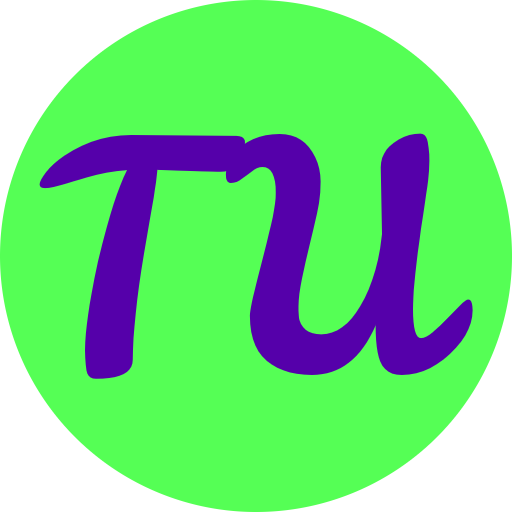
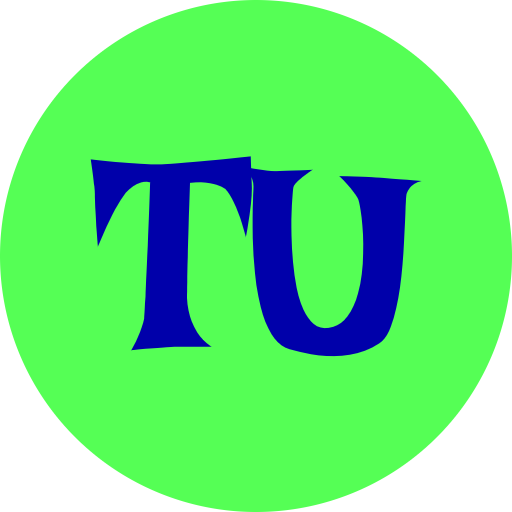
Updates

Changed region(s): [[0.0625, 0.25, 0.9375, 0.75]]

diff --git a/src/components/About.js b/src/components/About.js
@@ -1,33 +1,37 @@
-import React, { useState } from 'react'
+import React from 'react'
 
-export default function About() {
+export default function About(props) {
 
-     const [myStyle, setMyStyle] = useState( {
-        color:'black',
-        backgroundColor:'White'
+    //  const [myStyle, setMyStyle] = useState( {
+    //     color:'black',
+    //     backgroundColor:'White'
 
-    })
+    // })
 
-    const [btntext, setBtnText] = useState("Enable Dark Mode")
-
-    const toggleStyle = () =>{
-       if( myStyle.color === 'white') {
-        setMyStyle({
-          
-        })
-        setBtnText("Enable Dark Mode")
-       }
-       else{
-        setMyStyle({
-            color:'white',
-            backgroundColor:'black'
-        })
-        setBtnText("Enable Light Mode")
-       }
+    let myStyle = {
+        color: props.mode === 'dark'?'white':'rgb(36 74 104)',
+        backgroundColor: props.mode === 'dark'?'rgb(36 74 104)':'white',
     }
+
+
+    // const toggleStyle = () =>{
+    //    if( myStyle.color === 'white') {
+    //     setMyStyle({
+          
+    //     })
+    //     setBtnText("Enable Dark Mode")
+    //    }
+    //    else{
+    //     setMyStyle({
+    //         color:'white',
+    //         backgroundColor:'black'
+    //     })
+    //     setBtnText("Enable Light Mode")
+    //    }
+    // }
    
   return (
-    <div className="contaoner" style={myStyle} >
+    <div className="contaoner" style={{color: props.mode === 'dark'?'white':'rgb(36 74 104)'}} >
         <h1 className="my-3">About Us</h1>
                 <div className="accordion" id="accordionExample" >
             <div className="accordion-item">
@@ -38,8 +42,7 @@ export default function About() {
                 </h2>
                 <div id="collapseOne" className="accordion-collapse collapse show" data-bs-parent="#accordionExample">
                 <div className="accordion-body" style={myStyle}>
-                    <strong>This is the first item’s accordion body.</strong> It is shown by default, until the collapse plugin adds the appropriate classes that we use to style each element. These classes control the overall appearance, as well as the showing and hiding via CSS transitions. You can modify any of this with custom CSS or overriding our default variables. It’s also worth noting that just about any HTML can go within the <code>.accordion-body</code>, though the transition does limit overflow.
-                </div>
+                    <strong>Text Utils</strong> is your go-to toolkit for quick, smart, and reliable text processing — from formatting and counting to transforming content effortlessly.                </div>
                 </div>
             </div>
             <div className="accordion-item">
@@ -50,8 +53,7 @@ export default function About() {
                 </h2>
                 <div id="collapseTwo" className="accordion-collapse collapse" data-bs-parent="#accordionExample">
                 <div className="accordion-body" style={myStyle}>
-                    <strong>This is the second item’s accordion body.</strong> It is hidden by default, until the collapse plugin adds the appropriate classes that we use to style each element. These classes control the overall appearance, as well as the showing and hiding via CSS transitions. You can modify any of this with custom CSS or overriding our default variables. It’s also worth noting that just about any HTML can go within the <code>.accordion-body</code>, though the transition does limit overflow.
-                </div>
+                    <strong>We believe</strong> in making text tasks simple, fast, and accessible for everyone, whether you’re a student, writer, or developer.                </div>
                 </div>
             </div>
             <div className="accordion-item">
@@ -62,14 +64,11 @@ export default function About() {
                 </h2>
                 <div id="collapseThree" className="accordion-collapse collapse" data-bs-parent="#accordionExample">
                 <div className="accordion-body" style={myStyle}>
-                    <strong>This is the third item’s accordion body.</strong> It is hidden by default, until the collapse plugin adds the appropriate classes that we use to style each element. These classes control the overall appearance, as well as the showing and hiding via CSS transitions. You can modify any of this with custom CSS or overriding our default variables. It’s also worth noting that just about any HTML can go within the <code>.accordion-body</code>, though the transition does limit overflow.
-                </div>
+                    <strong>Our mission is</strong> to empower you with intuitive tools that save time and boost productivity.                </div>
                 </div>
             </div>
         </div>
-        <div className="container my-3">
-            <button onClick={toggleStyle} type="button" class="btn btn-primary">{btntext}</button>
-        </div>
+        
     </div>
   )
 }

diff --git a/src/components/TextForm.js b/src/components/TextForm.js
@@ -5,7 +5,7 @@ export default function TextForm(props) {
  
 const handleUpClick = () => {
   if (text.trim() === "") {
-    props.showAlert("Please enter some text first!", "warning");
+    props.showAlert("Please enter some content first!", "warning");
   } else {
     let newText = text.toUpperCase();
     setText(newText);
@@ -13,15 +13,20 @@ const handleUpClick = () => {
   }
 };
 
-  const handlereClick = () => {
-      let newText = ' ';
-      setText(newText);
+  
+const handleReClick = () => {
+  if (text.trim() === "") {
+    props.showAlert("Please enter some content to reset!", "warning");
+  } else {
+    setText("");
+    props.showAlert("Text cleared successfully!", "success");
   }
+};
 
 
 const handleLoClick = () => {
   if (text.trim() === "") {
-   props.showAlert("Please enter some text first!", "warning");
+   props.showAlert("Please enter some content first!", "warning");
   } else {
     let newText = text.toLowerCase();
     setText(newText);
@@ -36,12 +41,13 @@ const handleLoClick = () => {
 
 const handleCopy = async () => {
   if (text.trim() === "") {
-    props.showAlert("Please enter some text first!", "warning");
+    props.showAlert("Please enter some content first!", "warning");
     return;
   }
 
   try {
     await navigator.clipboard.writeText(text);
+    document.getSelection().removeAllRanges();
     props.showAlert("Copied to Clipboard!", "success");
   } catch (error) {
     props.showAlert("Failed to copy text!", "danger");
@@ -54,23 +60,30 @@ const handleCopy = async () => {
   return (
     <>
     <div className="container" style={{color: props.mode === 'dark'?'white':'black'}}>
-      <h1>{props.heading} </h1>
+      <h1 className='mb-4'>{props.heading} </h1>
      <div className="mb-3">
-        <textarea className="form-control" value={text} onChange={handleOnChange} style={{backgroundColor: props.mode === 'dark'?'grey':'white', color: props.mode === 'dark'?'white':'black'}}  id="myBox" rows="8"></textarea>
+        <textarea className="form-control" value={text} onChange={handleOnChange} style={{backgroundColor: props.mode === 'dark'?'#13466e':'white', color: props.mode === 'dark'?'white':'black'}}  id="myBox" rows="8"></textarea>
      </div>
     <button className="btn btn-primary my-1 mx-1" onClick={handleUpClick}>Convert to UPPERCASE</button>
     <button className="btn btn-primary my-1 mx-1" onClick={handleLoClick}>Convert to lowercase</button>
     <button className="btn btn-primary my-1 mx-1" onClick={handleCopy}>Copy to Clipboard</button>
-    <button className="btn btn-primary my-1 mx-1" onClick={handlereClick}>Reset above field</button>
+    <button className="btn btn-primary my-1 mx-1" onClick={handleReClick}>Reset above field</button>
 
 
     
     <div className="container my-3">
       <h2>your text summery </h2>
-      <p>{text.split(" ").length-1} word and {text.length} characters </p>
-       <p>{0.008*text.split(" ").length} Minutes read </p>
+      
+      <p>
+        {text.split(/\s+/).filter((element) => element.length !== 0).length} words
+        and {text.replace(/\s/g, "").length} characters
+      </p>
+
+      {/* <p>{text.split(" ").filter((element)=>{return element.length!==0}).length} word and {text.length} characters </p> */}
+
+       <p>{0.008 * text.split(" ").filter((element)=>{return element.length!==0}).length} Minutes read </p>
        <h2>Preview</h2>
-       <p>{text.length>0?text:"Enter something in the text box above to preview it here"}</p>
+       <p>{text.length>0?text:"Nothing to preview!"}</p>
 
     </div>
    </div> 

diff --git a/src/components/Navbar.js b/src/components/Navbar.js
@@ -1,25 +1,36 @@
 import React from 'react'
 import PropTypes from 'prop-types'
-// import { Link } from 'react-router-dom';
+import { Link } from 'react-router-dom';
 
 
 export default function Navbar(props) {
   return (
      <nav className={`navbar navbar-expand-lg navbar-${props.mode} bg-${props.mode}`}>
   <div className="container-fluid">
-    <a className="navbar-brand" href="/">{props.title}</a>
+    {/* <a className="navbar-brand" href="/">{props.title}</a> */}
+    
+<Link className="navbar-brand d-flex align-items-center" to="/">
+  <img
+    src="/logo.png"
+    alt="TextUtils Logo"
+    width="130"
+    height="50"
+    className="me-2"
+  />
+  {props.title}
+</Link>
+
     <button className="navbar-toggler" type="button" data-bs-toggle="collapse" data-bs-target="#navbarSupportedContent" aria-controls="navbarSupportedContent" aria-expanded="false" aria-label="Toggle navigation">
       <span className="navbar-toggler-icon"></span>
     </button>
     <div className="collapse navbar-collapse" id="navbarSupportedContent">
       <ul className="navbar-nav me-auto mb-2 mb-lg-0">
         <li className="nav-item">
-          {/* <Link className="nav-link active" aria-current="page" to="/">Home</Link> */}
-          <a className="nav-link active" aria-current="page" href="#">Home</a>
+          <Link className="nav-link active" aria-current="page" to="/">Home</Link>
         </li>
-        {/* <li className="nav-item">
+        <li className="nav-item">
           <Link className="nav-link" to="/about">About</Link>
-        </li> */}
+        </li>
       </ul>
       {/* <form className="d-flex" role="search">
         <input className="form-control me-2" type="search" placeholder="Search" aria-label="Search"/>

diff --git a/src/App.js b/src/App.js
@@ -1,14 +1,14 @@
 import './App.css';
 import Alert from './components/Alert';
-// import About from './components/About';
+import About from './components/About';
 import Navbar from './components/Navbar';
 import TextForm from './components/TextForm';
 import React, {useState} from 'react';
-// import{
-//   BrowserRouter as Router,
-//   Routes,
-//   Route,
-// }from "react-router-dom";
+import{
+  BrowserRouter as Router,
+  Routes,
+  Route,
+}from "react-router-dom";
 
 function App() {
   const [mode, setMode] = useState('light')
@@ -38,29 +38,29 @@ function App() {
   }
   return (
     <>
-  {/* <Router> */}
-     <Navbar title="TextUtils" mode={mode} toggleMode={toggleMode}/>
+  <Router>
+     <Navbar mode={mode} toggleMode={toggleMode}/>
      <Alert alert={alert}/>
 
      <div className="container my-3">
-      {/* <Routes>
+      <Routes>
         <Route
            exact path="/about"
-            element={<About />}
+            element={<About mode={mode}/>}
         />
         <Route
           exact path="/"
-          element={ */}
+          element={
             <TextForm
               showAlert={showAlert}
-              heading="Enter the text to analyze below"
+              heading="TextUtils - Word counter, character counter"
               mode={mode}
             />
-        {/* //   }
-        // /> */}
-      {/* </Routes> */}
+            }
+         /> 
+       </Routes> 
      </div>
-  {/* </Router>    */}
+   </Router>    
 
     </>
    

diff --git a/public/index.html b/public/index.html
@@ -12,10 +12,10 @@
     <link rel="apple-touch-icon" href="%PUBLIC_URL%/logo192.png" />
    
     <link rel="manifest" href="%PUBLIC_URL%/manifest.json" />
-    <link href="https://cdn.jsdelivr.net/npm/bootstrap@5.3.8/dist/css/bootstrap.min.css" rel="stylesheet" integrity="sha384-sRIl4kxILFvY47J16cr9ZwB07vP4J8+LH7qKQnuqkuIAvNWLzeN8tE5YBujZqJLB" crossorigin="anonymous">
+    <href="https://cdn.jsdelivr.net/npm/bootstrap@5.3.8/dist/css/bootstrap.min.css" rel="stylesheet" integrity="sha384-sRIl4kxILFvY47J16cr9ZwB07vP4J8+LH7qKQnuqkuIAvNWLzeN8tE5YBujZqJLB" crossorigin="anonymous">
   
 
-    <title>TextUtils - Home</title>
+    <title>Try TextUtils - Word counter | character counter</title>
   </head>
   <body>
     <noscript>You need to enable JavaScript to run this app.</noscript>

diff --git a/src/components/Alert.js b/src/components/Alert.js
@@ -8,9 +8,13 @@ function Alert(props) {
 
   return (
 
-    props.alert && <div className={`alert alert-${props.alert.type} alert-dismissible fade show`} role="alert">
+    <div style={{height: '40px'}} >
+      {props.alert && <div className={`alert alert-${props.alert.type} alert-dismissible fade show`} role="alert">
         <strong>{capitalize(props.alert.type)}</strong>:{props.alert.msg} 
+    </div>}
     </div>
+
+    
     
   )
 }

diff --git a/src/index.js b/src/index.js
@@ -1,6 +1,7 @@
 import React from 'react';
 import ReactDOM from 'react-dom/client';
 import './index.css';
+import 'bootstrap/dist/css/bootstrap.min.css';
 import App from './App';
 import reportWebVitals from './reportWebVitals';
 
